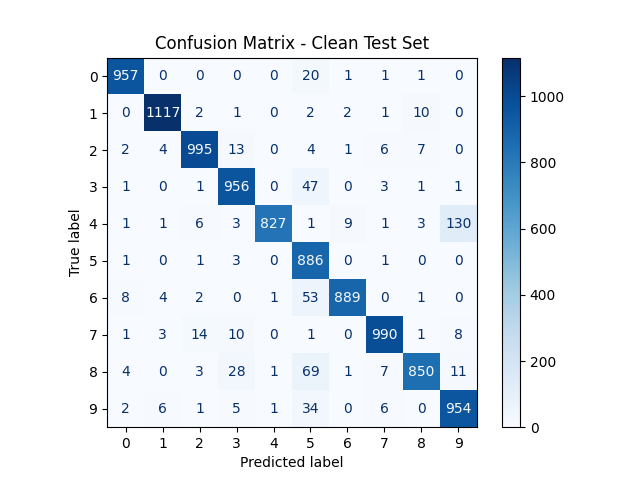
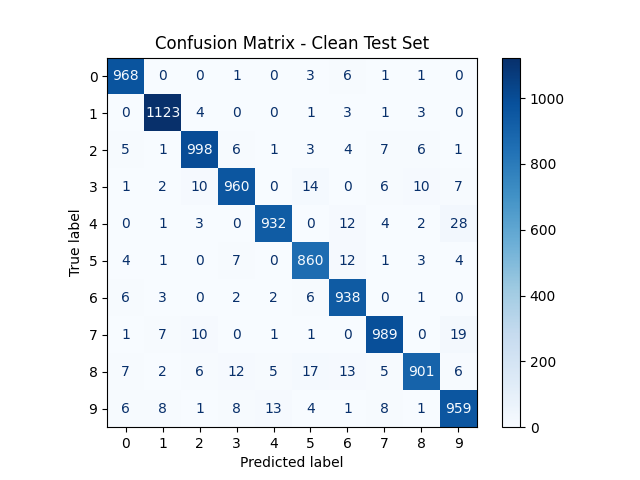
changed CNN to reproduce the one from the presented resource

diff --git a/Badnet/badnet.py b/Badnet/badnet.py
@@ -52,16 +52,26 @@ class PoisonedMNIST(Dataset):
 
 
 # CNN
+# followed the architecture from here https://www.tensorflow.org/tutorials/images/cnn
 class SimpleCNN(nn.Module):
     def __init__(self):
         super().__init__()
         self.net = nn.Sequential(
-            nn.Conv2d(1, 16, 5), nn.ReLU(), nn.MaxPool2d(2),
-            nn.Conv2d(16, 32, 5), nn.ReLU(), nn.MaxPool2d(2),
+            nn.Conv2d(1, 32, kernel_size=3, padding=1),
+            nn.ReLU(),
+            nn.MaxPool2d(2),
+
+            nn.Conv2d(32, 64, kernel_size=3, padding=1),
+            nn.ReLU(),
+            nn.MaxPool2d(2),
+
+            nn.Conv2d(64, 64, kernel_size=3, padding=1),
+            nn.ReLU(),
+
             nn.Flatten(),
-            nn.Linear(32 * 4 * 4, 120), nn.ReLU(),
-            nn.Linear(120, 84), nn.ReLU(),
-            nn.Linear(84, 10)
+            nn.Linear(64 * 7 * 7, 64),
+            nn.ReLU(),
+            nn.Linear(64, 10)
         )
 
     def forward(self, x):
@@ -108,7 +118,6 @@ def evaluate(model, loader, poisoned=False, target_label=None, title=""):
             out = model(x)
             pred = out.argmax(dim=1)
 
-            # For confusion matrix: use original labels
             y_true.extend(y_orig.cpu().numpy())
             y_pred.extend(pred.cpu().numpy())
             total += y_poisoned.size(0)
